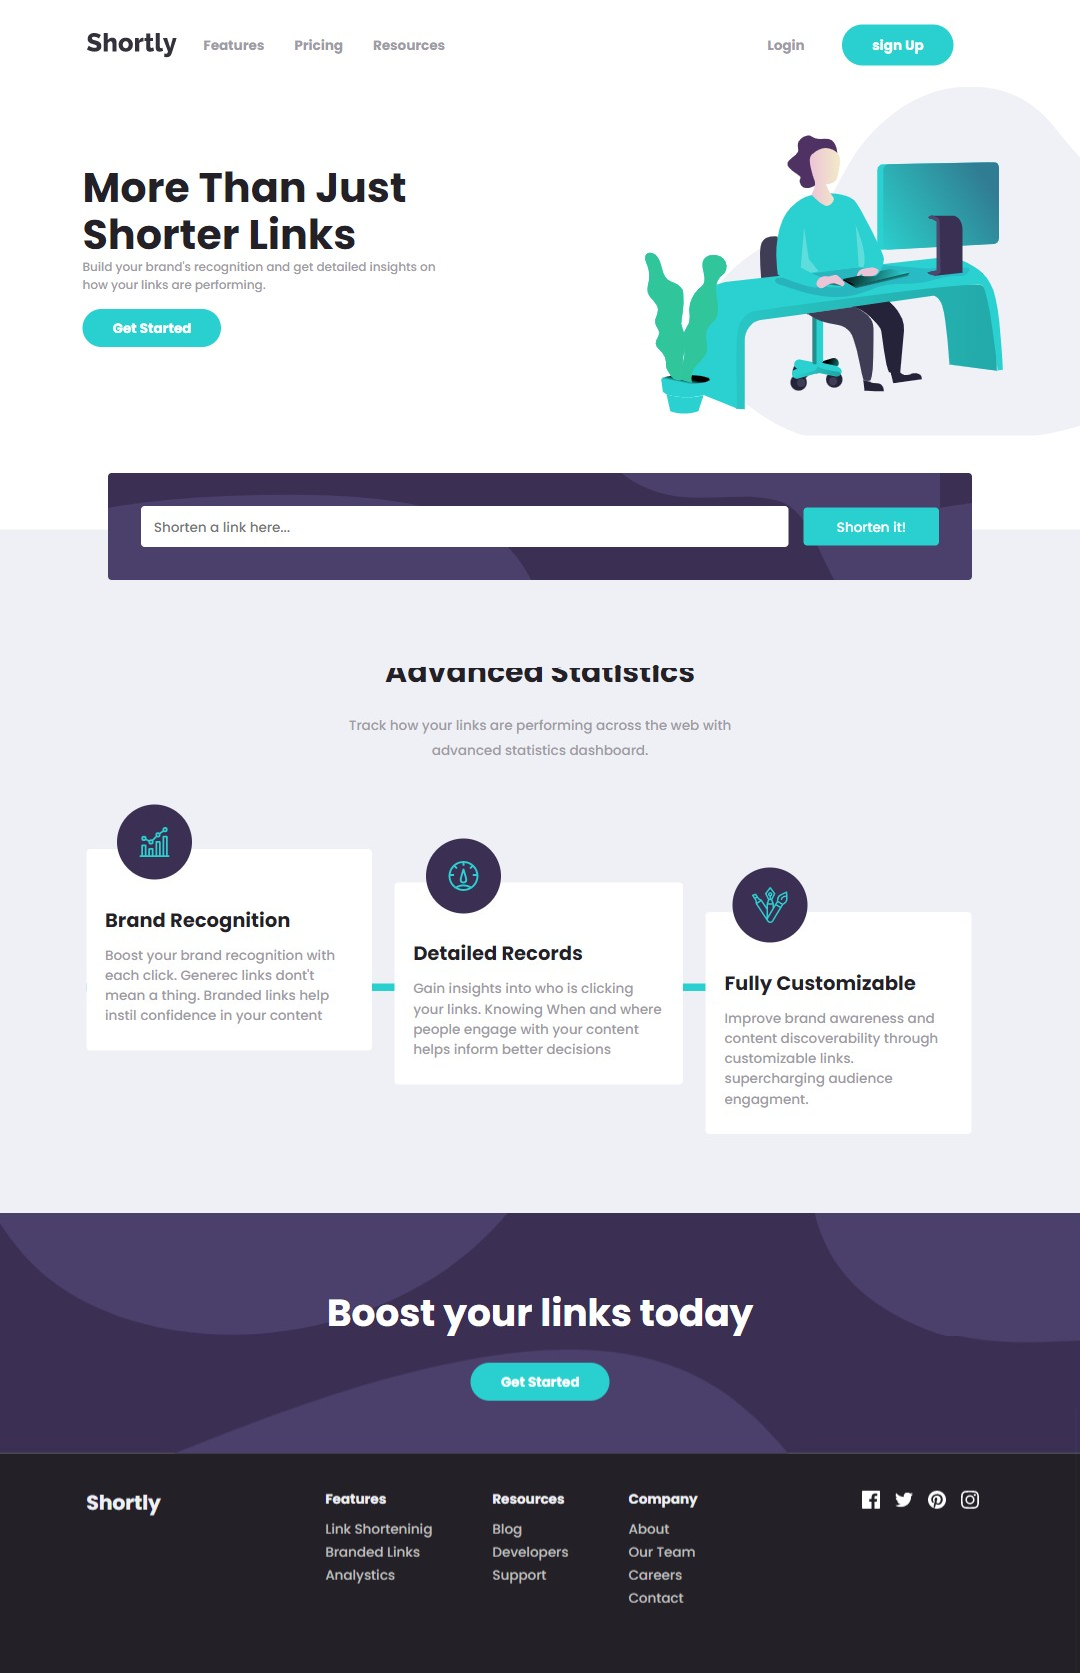
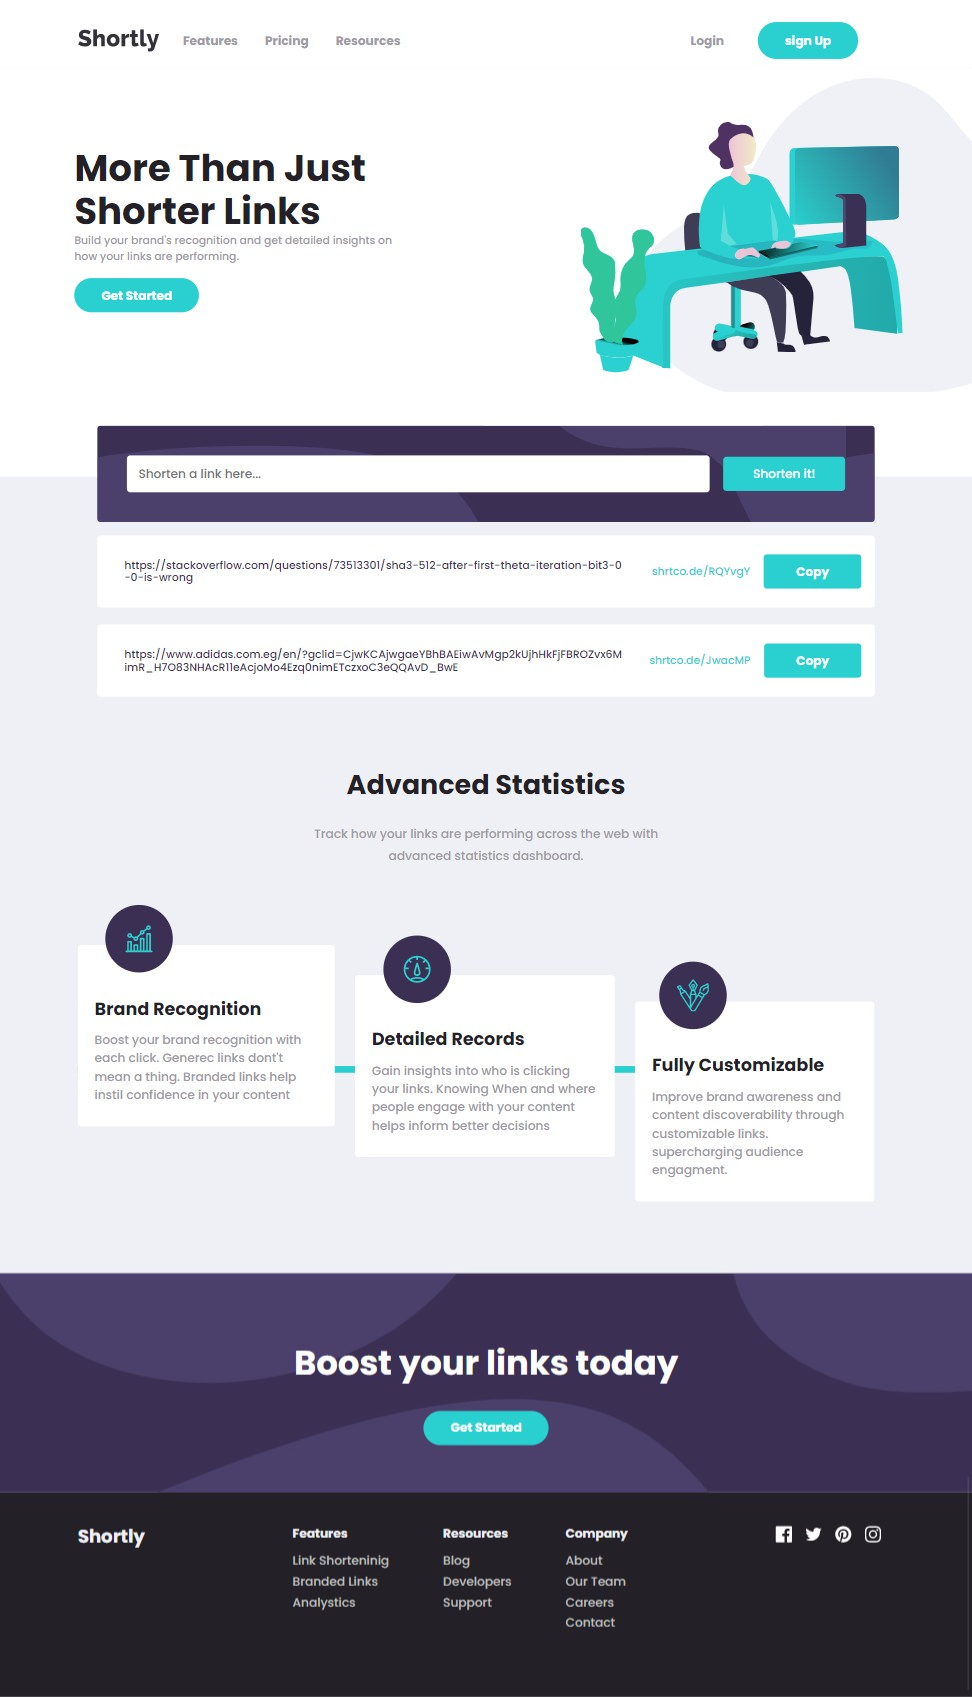
code phase and refact css

diff --git a/js/main.js b/js/main.js
@@ -1,2 +1,100 @@
-"use strict";
+var __awaiter = (this && this.__awaiter) || function (thisArg, _arguments, P, generator) {
+    function adopt(value) { return value instanceof P ? value : new P(function (resolve) { resolve(value); }); }
+    return new (P || (P = Promise))(function (resolve, reject) {
+        function fulfilled(value) { try { step(generator.next(value)); } catch (e) { reject(e); } }
+        function rejected(value) { try { step(generator["throw"](value)); } catch (e) { reject(e); } }
+        function step(result) { result.done ? resolve(result.value) : adopt(result.value).then(fulfilled, rejected); }
+        step((generator = generator.apply(thisArg, _arguments || [])).next());
+    });
+};
+const shortenTxt = document.querySelector(".form > input");
+const errorMesg = document.querySelector(".form > p");
+const shortenMainDiv = document.querySelector(".shorten  > .container");
+const shortenBtn = document.querySelector(".form > button");
+let url = "https://api.shrtco.de/v2/shorten?url=";
+let source;
+let shortenData = [];
+let shortenObject;
+function addToLocalStorage(key, value) {
+    localStorage.setItem(key, JSON.stringify(value));
+}
+function getFromLocalStorage(key) {
+    if (localStorage.getItem(key)) {
+        return JSON.parse(localStorage.getItem(key) || "");
+    }
+    return "";
+}
+function getData(url) {
+    return __awaiter(this, void 0, void 0, function* () {
+        let data = (yield fetch(url)).json();
+        let source = yield data;
+        shortenObject = {
+            original_link: source.result.original_link,
+            short_link: source.result.short_link,
+        };
+        shortenData.push(shortenObject);
+        addToLocalStorage("shortenData", JSON.stringify(shortenData));
+        loadData();
+    });
+}
+function loadData() {
+    if (getFromLocalStorage("shortenData")) {
+        source = JSON.parse(getFromLocalStorage("shortenData"));
+        if (source.length > 0) {
+            addShortenLinksToPage();
+        }
+    }
+}
+function shortenLink() {
+    shortenBtn === null || shortenBtn === void 0 ? void 0 : shortenBtn.addEventListener("click", () => {
+        if ((shortenTxt === null || shortenTxt === void 0 ? void 0 : shortenTxt.value) == "") {
+            shortenTxt.classList.add("error");
+            errorMesg.style.display = "block";
+            return false;
+        }
+        shortenTxt.classList.remove("error");
+        errorMesg.style.display = "none";
+        let originalLink = shortenTxt === null || shortenTxt === void 0 ? void 0 : shortenTxt.value;
+        let fullLink = url + originalLink;
+        shortenTxt.value = "";
+        getData(fullLink);
+        return true;
+    });
+}
+function addShortenLinksToPage() {
+    console.log(source);
+    source.forEach((element) => {
+        let copyDiv = document.createElement("div");
+        copyDiv.className = "copy-link";
+        let originalLink = document.createElement("a");
+        originalLink.innerHTML = element.original_link;
+        originalLink.href = element.original_link;
+        let shortLink = document.createElement("a");
+        shortLink.innerHTML = element.short_link;
+        shortLink.href = element.short_link;
+        let copyBtn = document.createElement("button");
+        copyBtn.innerHTML = "Copy";
+        copyBtn.className = "main-btn";
+        copyBtn.addEventListener("click", addToClipboard);
+        copyDiv.appendChild(originalLink);
+        copyDiv.appendChild(shortLink);
+        copyDiv.appendChild(copyBtn);
+        shortenMainDiv === null || shortenMainDiv === void 0 ? void 0 : shortenMainDiv.appendChild(copyDiv);
+    });
+}
+function addToClipboard(event) {
+    let btn = event.target;
+    if (btn.innerHTML == "Copied") {
+        console.log("link already copied.");
+        return false;
+    }
+    let shortLink = btn.previousElementSibling;
+    btn.classList.add("copied");
+    btn.innerHTML = "Copied!";
+    navigator.clipboard.writeText(shortLink.innerHTML);
+    return true;
+}
+loadData();
+shortenLink();
+export {};
 //# sourceMappingURL=main.js.map

diff --git a/src/main.ts b/src/main.ts
@@ -1,0 +1,99 @@
+//#region Dclaration
+import { shorten } from "./shorten-data";
+const shortenTxt = document.querySelector(".form > input") as HTMLInputElement;
+const errorMesg = document.querySelector(".form > p") as HTMLParagraphElement;
+const shortenMainDiv = document.querySelector(".shorten  > .container");
+const shortenBtn = document.querySelector(
+  ".form > button"
+) as HTMLButtonElement;
+let url: string = "https://api.shrtco.de/v2/shorten?url=";
+let source: any;
+let shortenData: any[] = [];
+let shortenObject: shorten;
+//#endregion
+//#region  Functions
+function addToLocalStorage(key: string, value: any) {
+  localStorage.setItem(key, JSON.stringify(value));
+}
+function getFromLocalStorage(key: any) {
+  if (localStorage.getItem(key)) {
+    return JSON.parse(localStorage.getItem(key) || "");
+  }
+  return "";
+}
+async function getData(url: string) {
+  let data = (await fetch(url)).json();
+  let source = await data;
+  shortenObject = {
+    original_link: source.result.original_link,
+    short_link: source.result.short_link,
+  };
+  shortenData.push(shortenObject);
+  addToLocalStorage("shortenData", JSON.stringify(shortenData));
+  loadData();
+}
+function loadData() {
+  if (getFromLocalStorage("shortenData")) {
+    source = JSON.parse(getFromLocalStorage("shortenData"));
+    if (source.length > 0) {
+      addShortenLinksToPage();
+    }
+  }
+}
+// function to shorten link when click
+function shortenLink() {
+  shortenBtn?.addEventListener("click", () => {
+    if (shortenTxt?.value == "") {
+      shortenTxt.classList.add("error");
+      errorMesg.style.display = "block";
+      return false;
+    }
+    shortenTxt.classList.remove("error");
+    errorMesg.style.display = "none";
+    let originalLink = shortenTxt?.value;
+    let fullLink = url + originalLink;
+    shortenTxt.value = "";
+    getData(fullLink);
+    return true;
+  });
+}
+// function to add links to page dom.
+function addShortenLinksToPage() {
+  console.log(source);
+  source.forEach((element: any) => {
+    let copyDiv = document.createElement("div");
+    copyDiv.className = "copy-link";
+    let originalLink = document.createElement("a");
+    originalLink.innerHTML = element.original_link;
+    originalLink.href = element.original_link;
+    let shortLink = document.createElement("a");
+    shortLink.innerHTML = element.short_link;
+    shortLink.href = element.short_link;
+    let copyBtn = document.createElement("button");
+    copyBtn.innerHTML = "Copy";
+    copyBtn.className = "main-btn";
+    copyBtn.addEventListener("click", addToClipboard);
+    copyDiv.appendChild(originalLink);
+    copyDiv.appendChild(shortLink);
+    copyDiv.appendChild(copyBtn);
+    shortenMainDiv?.appendChild(copyDiv);
+  });
+}
+// function to add copied link to clipboard.
+function addToClipboard(event: any) {
+  let btn = event.target;
+  if (btn.innerHTML == "Copied") {
+    console.log("link already copied.");
+    return false;
+  }
+  let shortLink = btn.previousElementSibling;
+  btn.classList.add("copied");
+  btn.innerHTML = "Copied!";
+  navigator.clipboard.writeText(shortLink.innerHTML);
+  return true;
+}
+//#region
+//#region  Calls
+loadData();
+shortenLink();
+//#endregion

diff --git a/css/main.css b/css/main.css
@@ -50,8 +50,11 @@ ul {
     font-weight: 700;
     cursor: pointer;
 }
-.main-btn:hover {
+.main-btn:hover, 
+button:hover 
+ {
     opacity: .5;
+    cursor: pointer;
 }
 /***************************** End Global ******************************/
 /***************************** Start Header *****************************/
@@ -188,16 +191,23 @@ header .container > .menu {
     position: relative;
     margin-bottom: 25px;
 }
-.copy-link > h4 {
+.copy-link > a {
     margin: 0;
     padding: 15px 20px;
     text-align: left;
     color: var(--dark-violet);
     font-size: 16px;
+    display: block;
+    cursor: pointer;
 }
-.copy-link > h4:nth-child(2) {
+.copy-link > a:first-child {
+    word-break: break-all;
+}
+.copy-link > a:nth-child(2) {
     border-top: solid 1px var(--gray);
     color: var(--cyan);
+    margin-right: 0;
+    margin-left: auto;
 }
 .copy-link > button {
     border-radius: var(--radius);

diff --git a/css/media.css b/css/media.css
@@ -1,7 +1,4 @@
 @media (min-width:1200px) {
-    button:hover {
-        opacity: .5;
-    }
 /******************************* Start Header *******************************/
 .container {
     padding-inline:115px;
@@ -100,15 +97,17 @@
         width: 80vw;
         margin-inline: auto;
     }
-    .copy-link > h4 {
+    .copy-link > a {
         margin: 0;
         padding: 15px 20px;
         text-align: left;
         color: var(--dark-violet);
         font-size: 16px;
-        flex: 1;
     }
-    .copy-link > h4:nth-child(2) {
+    .copy-link > a:first-child {
+        width: 900px;
+    }
+    .copy-link > a:nth-child(2) {
         border-top: none;
         color: var(--cyan);
         text-align: right;

diff --git a/index.html b/index.html
@@ -163,6 +163,6 @@
         </div>
       </footer>
     </section>
-    <script src="js/main.js"></script>
+    <script src="js/main.js" type="module"></script>
   </body>
 </html>

diff --git a/src/shorten-data.ts b/src/shorten-data.ts
@@ -1,0 +1,4 @@
+export interface shorten {
+  original_link: string;
+  short_link: string;
+}

diff --git a/js/shorten-data.js b/js/shorten-data.js
@@ -1,0 +1,2 @@
+export {};
+//# sourceMappingURL=shorten-data.js.map
